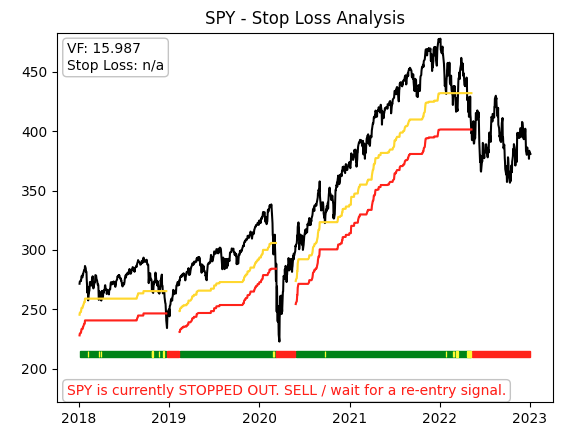
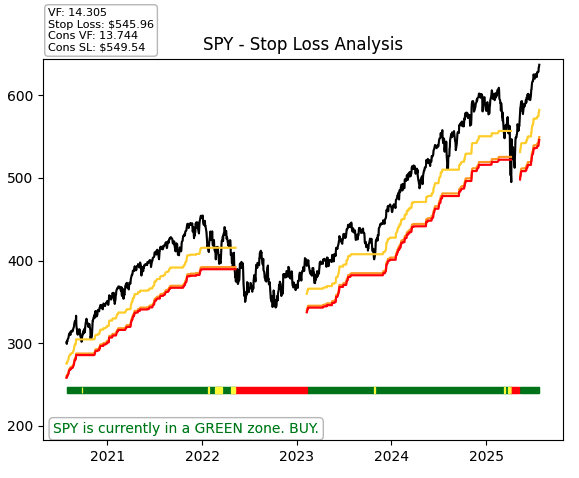
bump to 2.0.0 for major updates

Changed region(s): [[0.0, 0.0, 0.9637, 0.9772], [0.0, 0.3554, 0.0622, 0.385]]

diff --git a/README.md b/README.md
@@ -6,7 +6,7 @@ Library tool to determine a smart stop-loss for technical analysis of funds. Thi
 
 <img alt="mrna-stop-loss" src="static/mrna_stop_loss.png" width=600/>
 
-<img alt="vgt-stop-loss" src="static/vgt_20230719.png" width=600>
+<img alt="vgt-stop-loss" src="static/vgt_stop_loss.png" width=600>
 
 ---
 
